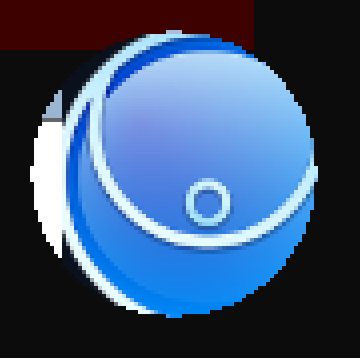
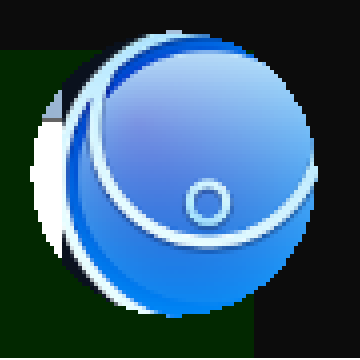
Real fix for white edges and offset content: undecorated_shadow(false)
The phantom inset was never a Win32 frame - it is tao DWM shadow for
undecorated windows eating ~8px of the client area. One builder flag
(with_undecorated_shadow(false)) fixes the white ring around the
overlay AND the off-center chat-head logo. All the SetWindowLongW
frame surgery is reverted; regions re-assert on Resized as safety,
overlay re-parks after creation (Windows clamps off-screen spawns),
toggle state derives from the real window position.

Changed region(s): [[0.0, 0.0, 0.7028, 1.0]]

diff --git a/shell/src/main.rs b/shell/src/main.rs
@@ -25,11 +25,8 @@ use tray_icon::{
 use windows_sys::Win32::Foundation::HWND;
 use windows_sys::Win32::Graphics::Gdi::{CreateEllipticRgn, CreateRoundRectRgn, SetWindowRgn};
 use windows_sys::Win32::UI::WindowsAndMessaging::{
-    EnumWindows, FindWindowExW, FindWindowW, GetWindowLongW, GetWindowThreadProcessId,
-    IsWindowVisible, SendMessageTimeoutW, SetParent, SetWindowLongW, SetWindowPos,
-    SystemParametersInfoW, GWL_STYLE, SMTO_NORMAL, SPI_SETDESKWALLPAPER, SWP_FRAMECHANGED,
-    SWP_NOACTIVATE, SWP_NOMOVE, SWP_NOSIZE, SWP_NOZORDER, WS_CAPTION, WS_MAXIMIZEBOX,
-    WS_MINIMIZEBOX, WS_SYSMENU, WS_THICKFRAME,
+    EnumWindows, FindWindowExW, FindWindowW, GetWindowThreadProcessId, IsWindowVisible,
+    SendMessageTimeoutW, SetParent, SystemParametersInfoW, SMTO_NORMAL, SPI_SETDESKWALLPAPER,
 };
 
 const CREATE_NO_WINDOW: u32 = 0x0800_0000;
@@ -196,28 +193,6 @@ fn restore_wallpaper() {
     }
 }
 
-/// tao's frameless windows keep an invisible Win32 resize frame that offsets
-/// the webview ~8px (white sliver + shifted content). Strip the frame styles
-/// for real, then nudge the size so wry re-fits the webview to the new
-/// client area.
-fn strip_frame(window: &Window, w: f64, h: f64) {
-    unsafe {
-        let hwnd = window.hwnd() as HWND;
-        let style = GetWindowLongW(hwnd, GWL_STYLE) as u32;
-        let cleared = style
-            & !(WS_CAPTION | WS_THICKFRAME | WS_MINIMIZEBOX | WS_MAXIMIZEBOX | WS_SYSMENU);
-        SetWindowLongW(hwnd, GWL_STYLE, cleared as i32);
-        SetWindowPos(
-            hwnd,
-            std::ptr::null_mut(),
-            0, 0, 0, 0,
-            SWP_FRAMECHANGED | SWP_NOMOVE | SWP_NOSIZE | SWP_NOZORDER | SWP_NOACTIVATE,
-        );
-    }
-    // Re-assert the size so the client rect (and the wry child) realign.
-    window.set_inner_size(LogicalSize::new(w, h));
-}
-
 fn round_region(window: &Window, w: f64, h: f64, radius: f64) {
     let sf = window.scale_factor();
     unsafe {
@@ -309,13 +284,14 @@ fn main() {
         .with_inner_size(LogicalSize::new(FULL.0, FULL.1))
         .with_position(LogicalPosition::new(PARK.0, PARK.1))
         .with_decorations(false)
+        .with_undecorated_shadow(false)
         .with_resizable(false)
         .with_always_on_top(true)
         .with_window_icon(app_icon())
         .build(&event_loop)
         .expect("overlay window");
-    strip_frame(&overlay, FULL.0, FULL.1);
-    round_region(&overlay, FULL.0, FULL.1, 18.0);
+    // Windows clamps off-screen positions at creation — park it again now.
+    overlay.set_outer_position(LogicalPosition::new(PARK.0, PARK.1));
     let overlay_id = overlay.id();
     let p_overlay = proxy.clone();
     let overlay_view = WebViewBuilder::new()
@@ -331,6 +307,7 @@ fn main() {
         })
         .build(&overlay)
         .expect("overlay webview");
+    round_region(&overlay, FULL.0, FULL.1, 18.0);
 
     // ---- circular chat head
     let orb = WindowBuilder::new()
@@ -338,14 +315,14 @@ fn main() {
         .with_inner_size(LogicalSize::new(ORB_SIZE, ORB_SIZE))
         .with_position(LogicalPosition::new(orb_x, orb_y))
         .with_decorations(false)
+        .with_undecorated_shadow(false)
         .with_resizable(false)
         .with_always_on_top(true)
         .with_skip_taskbar(true)
         .with_window_icon(app_icon())
         .build(&event_loop)
         .expect("orb window");
-    strip_frame(&orb, ORB_SIZE, ORB_SIZE);
-    circle_region(&orb, ORB_SIZE);
+    let orb_id = orb.id();
     let p_orb = proxy.clone();
     let _orb_view = WebViewBuilder::new()
         .with_html(ORB_HTML)
@@ -358,6 +335,7 @@ fn main() {
         })
         .build(&orb)
         .expect("orb webview");
+    circle_region(&orb, ORB_SIZE);
 
     let raise_orb = |orb: &Window| {
         orb.set_always_on_top(false);
@@ -416,6 +394,15 @@ fn main() {
             Event::WindowEvent { window_id, event: WindowEvent::Focused(true), .. } => {
                 if window_id == overlay_id {
                     raise_orb(&orb);
+                }
+            }
+            // Regions get cleared by style/size changes — always re-assert.
+            Event::WindowEvent { window_id, event: WindowEvent::Resized(_), .. } => {
+                if window_id == orb_id {
+                    circle_region(&orb, ORB_SIZE);
+                } else if window_id == overlay_id {
+                    let (w, h) = if mini { MINI } else { FULL };
+                    round_region(&overlay, w, h, 18.0);
                 }
             }
             Event::UserEvent(ue) => match ue {